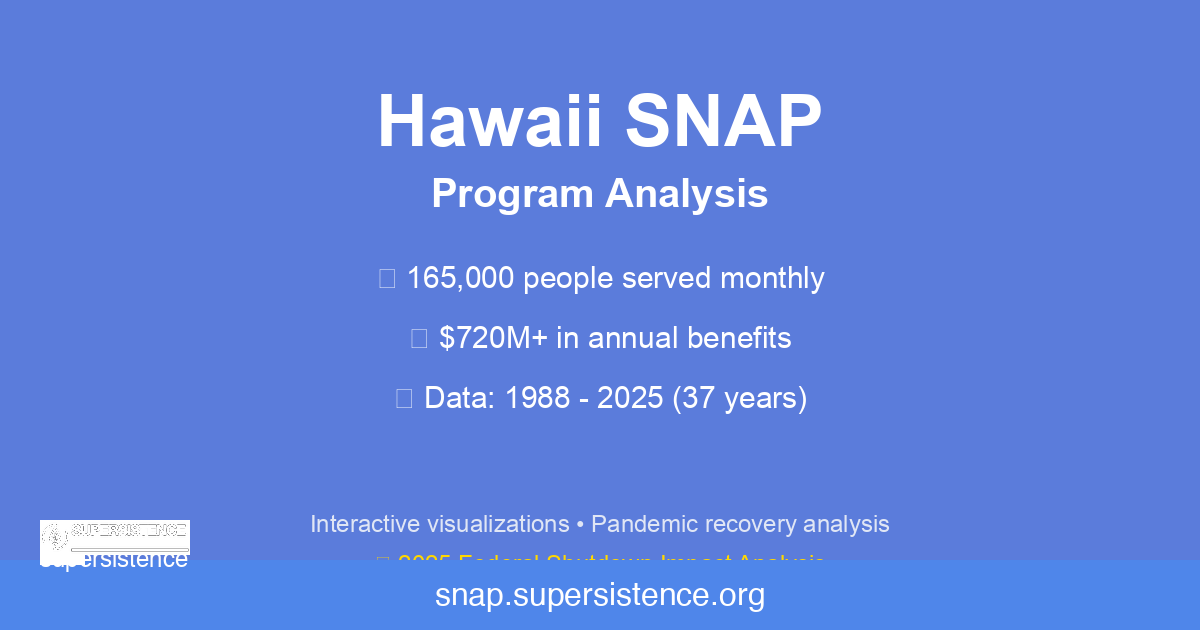
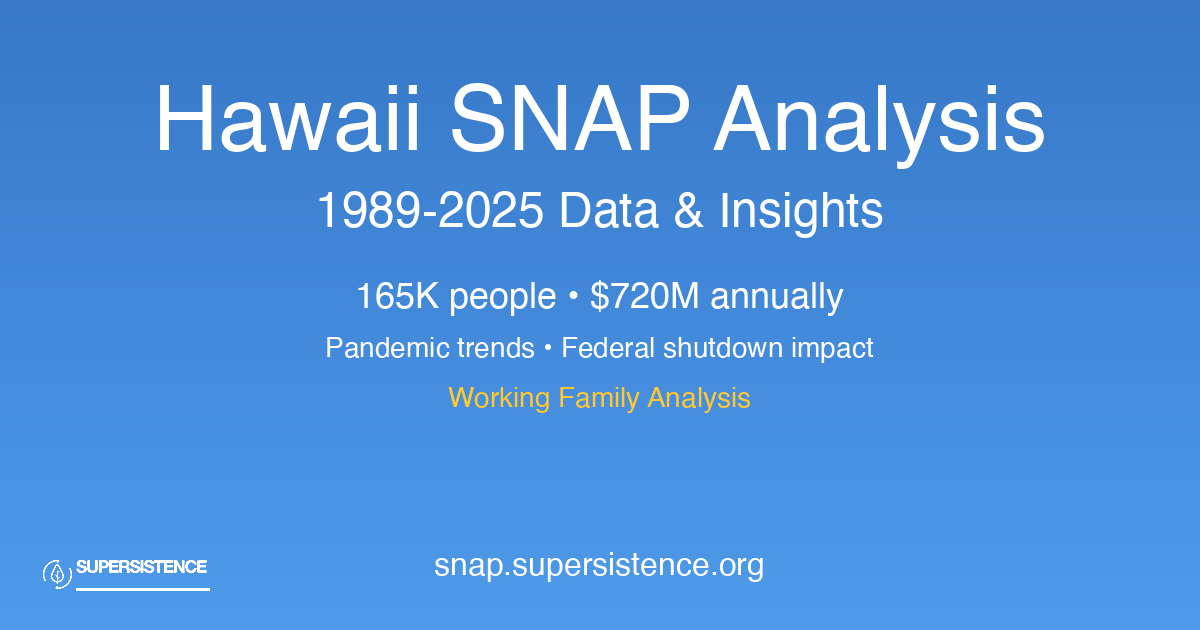
Create clean, professional social card design
Complete redesign of social media card with:
- Clean gradient blue background
- Large, readable title: "Hawaii SNAP Analysis"
- Clear subtitle: "1989-2025 Data & Insights"
- Key stats: "165K people • $720M annually"
- Features: "Pandemic trends • Federal shutdown impact"
- Highlighted: "Working Family Analysis" (in gold)
- Clean Supersistence logo (bottom left, no ghosting)
- URL: snap.supersistence.org (bottom center)

Fixed logo rendering by properly converting white background to transparent
and black pixels to solid white for visibility on blue gradient.

Much cleaner, more professional design that will display well on all social platforms.

🤖 Generated with [Claude Code](https://claude.com/claude-code)

diff --git a/scripts/create_new_social_card.py b/scripts/create_new_social_card.py
@@ -1,0 +1,151 @@
+#!/usr/bin/env python3
+"""
+Create a professional social card for Hawaii SNAP from scratch
+"""
+
+from PIL import Image, ImageDraw, ImageFont
+import os
+
+# Paths
+script_dir = os.path.dirname(os.path.abspath(__file__))
+project_root = os.path.dirname(script_dir)
+social_card_path = os.path.join(project_root, 'web', 'social-card.png')
+logo_path = os.path.join(project_root, 'web', 'SUPERSISTENCE logo copy.png')
+
+# Social card dimensions (optimal for Facebook, Twitter, LinkedIn)
+width = 1200
+height = 630
+
+# Create new image with gradient background
+print("Creating new social card...")
+img = Image.new('RGB', (width, height))
+draw = ImageDraw.Draw(img)
+
+# Create a nice blue gradient background
+for y in range(height):
+    # Gradient from darker blue at top to lighter blue at bottom
+    r = int(55 + (y / height) * 25)
+    g = int(120 + (y / height) * 35)
+    b = int(200 + (y / height) * 35)
+    draw.rectangle([(0, y), (width, y + 1)], fill=(r, g, b))
+
+# Load fonts
+try:
+    # Title font - large and bold
+    font_title = ImageFont.truetype("/System/Library/Fonts/Helvetica.ttc", 90)
+    font_subtitle = ImageFont.truetype("/System/Library/Fonts/Helvetica.ttc", 48)
+    font_stats = ImageFont.truetype("/System/Library/Fonts/Helvetica.ttc", 36)
+    font_small = ImageFont.truetype("/System/Library/Fonts/Helvetica.ttc", 28)
+    font_url = ImageFont.truetype("/System/Library/Fonts/Helvetica.ttc", 32)
+except:
+    print("Warning: Using default fonts")
+    font_title = ImageFont.load_default()
+    font_subtitle = ImageFont.load_default()
+    font_stats = ImageFont.load_default()
+    font_small = ImageFont.load_default()
+    font_url = ImageFont.load_default()
+
+# Define colors
+white = (255, 255, 255)
+light_white = (255, 255, 255, 240)
+gold = (255, 200, 50)
+
+# Draw main title - centered
+title = "Hawaii SNAP Analysis"
+bbox = draw.textbbox((0, 0), title, font=font_title)
+title_width = bbox[2] - bbox[0]
+x_title = (width - title_width) // 2
+y_title = 80
+draw.text((x_title, y_title), title, fill=white, font=font_title)
+
+# Draw subtitle
+subtitle = "1989-2025 Data & Insights"
+bbox = draw.textbbox((0, 0), subtitle, font=font_subtitle)
+subtitle_width = bbox[2] - bbox[0]
+x_subtitle = (width - subtitle_width) // 2
+y_subtitle = y_title + 110
+draw.text((x_subtitle, y_subtitle), subtitle, fill=white, font=font_subtitle)
+
+# Draw key statistics - centered
+y_stats = y_subtitle + 90
+
+# Stat 1
+stat1 = "165K people • $720M annually"
+bbox = draw.textbbox((0, 0), stat1, font=font_stats)
+stat1_width = bbox[2] - bbox[0]
+x_stat1 = (width - stat1_width) // 2
+draw.text((x_stat1, y_stats), stat1, fill=white, font=font_stats)
+
+# Stat 2
+stat2 = "Pandemic trends • Federal shutdown impact"
+bbox = draw.textbbox((0, 0), stat2, font=font_small)
+stat2_width = bbox[2] - bbox[0]
+x_stat2 = (width - stat2_width) // 2
+y_stat2 = y_stats + 55
+draw.text((x_stat2, y_stat2), stat2, fill=white, font=font_small)
+
+# Draw highlight feature
+feature = "Working Family Analysis"
+bbox = draw.textbbox((0, 0), feature, font=font_small)
+feature_width = bbox[2] - bbox[0]
+x_feature = (width - feature_width) // 2
+y_feature = y_stat2 + 50
+draw.text((x_feature, y_feature), feature, fill=gold, font=font_small)
+
+# Draw URL at bottom
+url = "snap.supersistence.org"
+bbox = draw.textbbox((0, 0), url, font=font_url)
+url_width = bbox[2] - bbox[0]
+x_url = (width - url_width) // 2
+y_url = height - 80
+draw.text((x_url, y_url), url, fill=white, font=font_url)
+
+# Add Supersistence logo in bottom left
+if os.path.exists(logo_path):
+    logo = Image.open(logo_path)
+
+    # Convert to RGBA
+    if logo.mode != 'RGBA':
+        logo = logo.convert('RGBA')
+
+    # Resize logo
+    logo_height = 40
+    aspect_ratio = logo.width / logo.height
+    logo_width = int(logo_height * aspect_ratio)
+    logo = logo.resize((logo_width, logo_height), Image.LANCZOS)
+
+    # Convert logo: white background to transparent, black to white
+    data = logo.getdata()
+    new_data = []
+    for item in data:
+        if len(item) == 4:
+            r, g, b, a = item
+        else:
+            r, g, b = item
+            a = 255
+
+        # If pixel is white/light (background), make it fully transparent
+        if r > 200 and g > 200 and b > 200:
+            new_data.append((255, 255, 255, 0))  # Transparent
+        # If pixel is black/dark (logo), make it white and opaque
+        elif r < 128 and g < 128 and b < 128:
+            new_data.append((255, 255, 255, 255))  # White, fully opaque
+        else:
+            # Gray pixels - make proportionally transparent
+            avg = (r + g + b) // 3
+            alpha = 255 - avg  # Darker = more opaque
+            new_data.append((255, 255, 255, alpha))
+
+    logo.putdata(new_data)
+
+    # Position in bottom left
+    logo_x = 40
+    logo_y = height - logo_height - 35
+    img.paste(logo, (logo_x, logo_y), logo)
+    print(f"Added logo at ({logo_x}, {logo_y})")
+
+# Save
+img.save(social_card_path, quality=95)
+print(f"✓ Created new social card: {social_card_path}")
+print(f"  Dimensions: {width}x{height}px")
+print(f"  Clean, professional design with gradient background")
